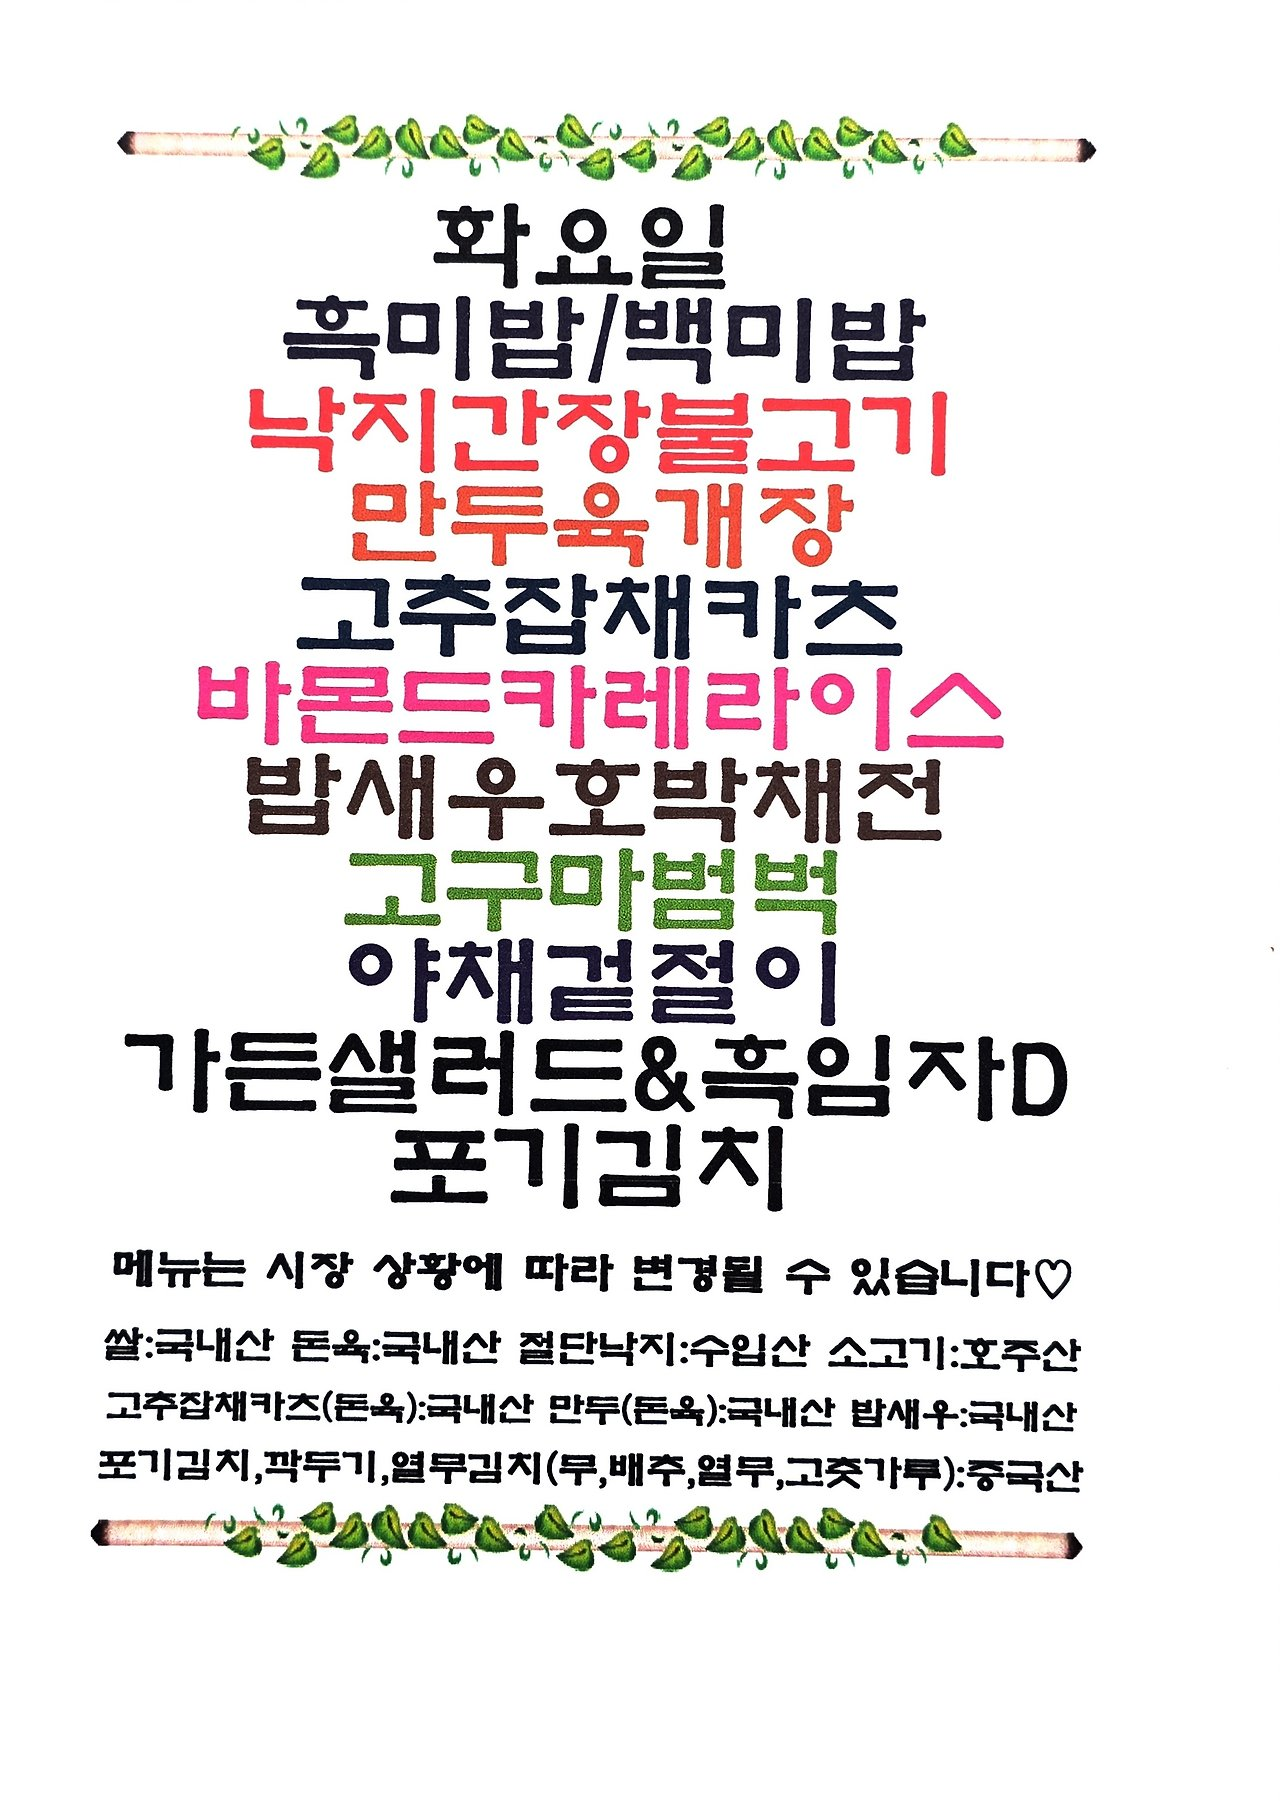
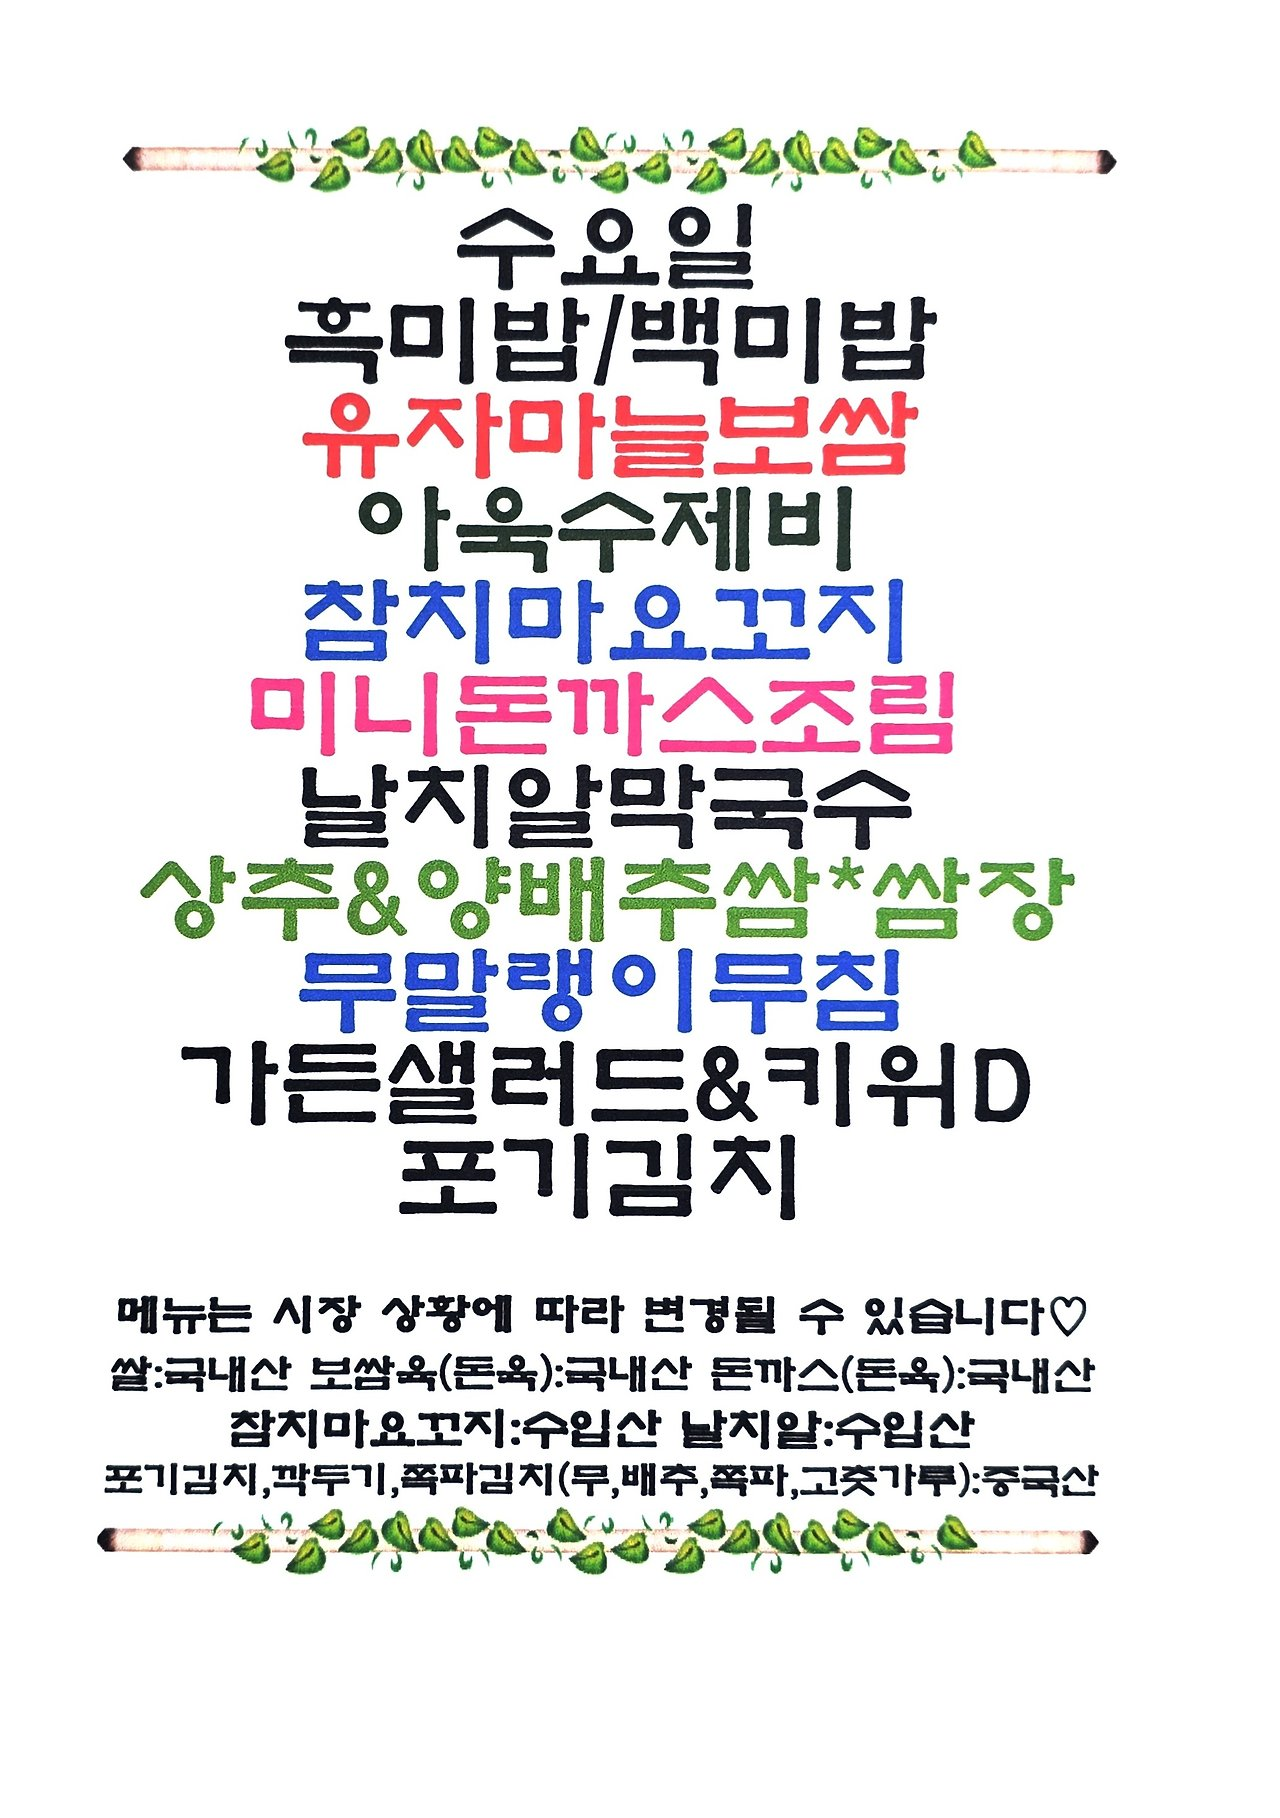
Update menu board assets

Changed region(s): [[0.0625, 0.0622, 0.875, 0.8706]]

diff --git a/menu-today/index.html b/menu-today/index.html
@@ -209,7 +209,7 @@
 
     <section class="meta-bar">
       <div class="meta-card"><div class="meta-label">기준 날짜</div><div class="meta-value">2026년 10월 28일 수요일</div></div>
-      <div class="meta-card"><div class="meta-label">최종 가져온 시간</div><div class="meta-value">2026-10-28 10:18:40</div></div>
+      <div class="meta-card"><div class="meta-label">최종 가져온 시간</div><div class="meta-value">2026-10-28 10:33:37</div></div>
       <div class="meta-card"><div class="meta-label">확인 완료</div><div class="meta-value">9개 식당</div></div>
       <div class="meta-card"><div class="meta-label">준비중</div><div class="meta-value">3개 채널</div></div>
     </section>
@@ -225,7 +225,7 @@
             <div class="sub">현대테라타워 가산DK</div>
           </div>
         </div>
-        <div class="menu-inline-image"><img src="./images/imeal.png" alt="아이밀 식단 이미지"></div><ul><li>건새우아욱국</li><li>뼈없는돈사태갈비양념찜</li><li>순대,김말이강정</li><li>연두부 &amp; 양념장</li><li>과리고추감자조림</li><li>가든샐러드</li><li>백미밥 / 흑미밥</li><li>사태갈비양념찜</li><li>타사을료</li><li>으으</li></ul>
+        <div class="menu-inline-image"><img src="./images/imeal.png" alt="아이밀 식단 이미지"></div><ul><li>건새우아욱국</li><li>뼈없는돈사태갈비양념찜</li><li>순대,김말이강정</li><li>연두부 &amp; 양념장</li><li>과리고추감자조림</li><li>가든샐러드 &amp; 흑임자D</li><li>백미밥 / 흑미밥</li><li>사태갈비양념찜</li><li>타사을료</li><li>으으</li></ul>
       </article>
 
       <article class="restaurant-card">
@@ -305,7 +305,7 @@
             <div class="sub">스타밸리</div>
           </div>
         </div>
-        <div class="menu-inline-image"><img src="./images/starvalley-food4u-post.png" alt="스타밸리푸드포유 식단 이미지"></div><ul><li>확요일</li><li>혹미밥 / 백미밥</li><li>낙지간장불고기</li><li>만두옥개장</li><li>고주잡재카즈</li><li>바몬드카레라이스</li><li>밥새우호박재전</li><li>고구마범벅</li><li>야채걸절이</li><li>가든샐러드 &amp; 흑임자D</li><li>포기김치</li><li>낙지간장불</li></ul>
+        <div class="menu-inline-image"><img src="./images/starvalley-food4u-post.png" alt="스타밸리푸드포유 식단 이미지"></div><ul><li>수요일</li><li>흑미밥 / 백미밥</li><li>유자마늘보쌈</li><li>아속수제비</li><li>잠지마요꼬지</li><li>미니돈까스조림</li><li>날지알막국수</li><li>상주 &amp; 양배추쌈*쌈장</li><li>무말랭이무짐</li><li>가든샐러드 &amp; 키위D</li><li>푼기김치</li></ul>
       </article>
     </section>
 

diff --git a/guro-menu/index.html b/guro-menu/index.html
@@ -32,7 +32,7 @@
   </header>
   <section class="meta">
     <div><small>기준 날짜</small><strong>2026년 10월 28일 수요일</strong></div>
-    <div><small>최종 갱신</small><strong>2026-10-28 10:18:54</strong></div>
+    <div><small>최종 갱신</small><strong>2026-10-28 10:33:49</strong></div>
     <div><small>등록 식당</small><strong>5개</strong></div>
   </section>
   <div class="notice">공개 카카오 채널의 메뉴 이미지를 자동 수집하고 OCR로 정리합니다. 텍스트에 오타가 있을 수 있으니 식단 이미지를 함께 확인해 주세요.</div>
